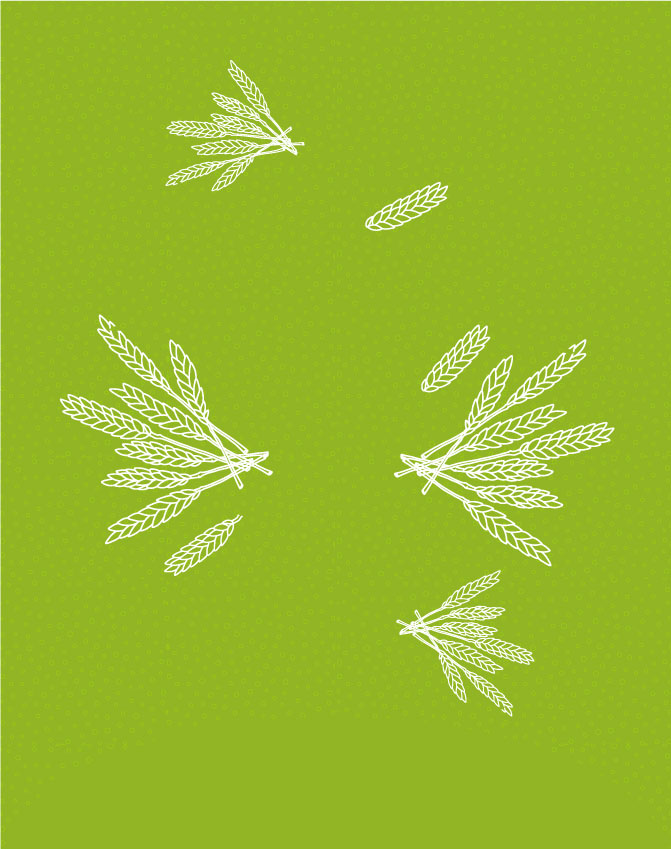
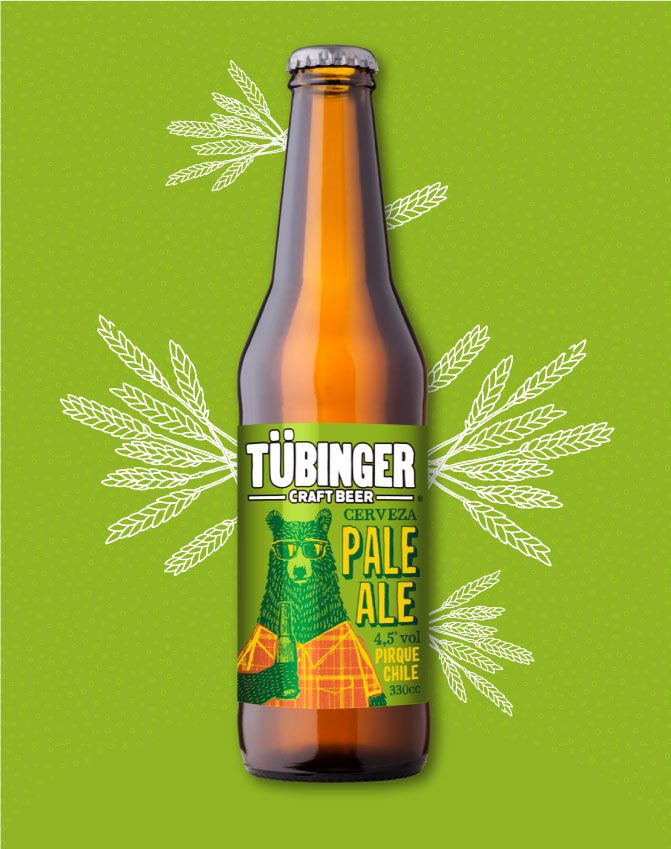
update featured

Changed region(s): [[0.3279, 0.0306, 0.6557, 0.9494]]

diff --git a/index.html b/index.html
@@ -76,7 +76,7 @@
 		<section id="section2" class="featured">
 			<div class="featured__img">
 				<img class="featured__img-bkg" src="assets/images/destacada-bkg-pale.jpg">
-				<img class="featured__img-beer shadowed" src="assets/images/destacada-pale-ale.png">
+				<!-- <img class="featured__img-beer shadowed" src="assets/images/destacada-pale-ale.png"> -->
 			</div>
 			<div class="featured__description">
 				<h2> PALE ALE</h2>

diff --git a/assets/js/myscript.js b/assets/js/myscript.js
@@ -90,9 +90,7 @@
 			    	$('.corner_logo').children('img:nth-child(1)').css('display', 'none');
 			    	$('.corner_logo').children('img:nth-child(2)').css('display', 'inline');
 			    }
-
-			})	
-
+			})
 	  } 
 	}
 	
@@ -117,7 +115,6 @@
 				beerInfo.removeClass('beer-info-visible');
 				e.stopPropagation();
 			}
-
 		})
 	})
 
